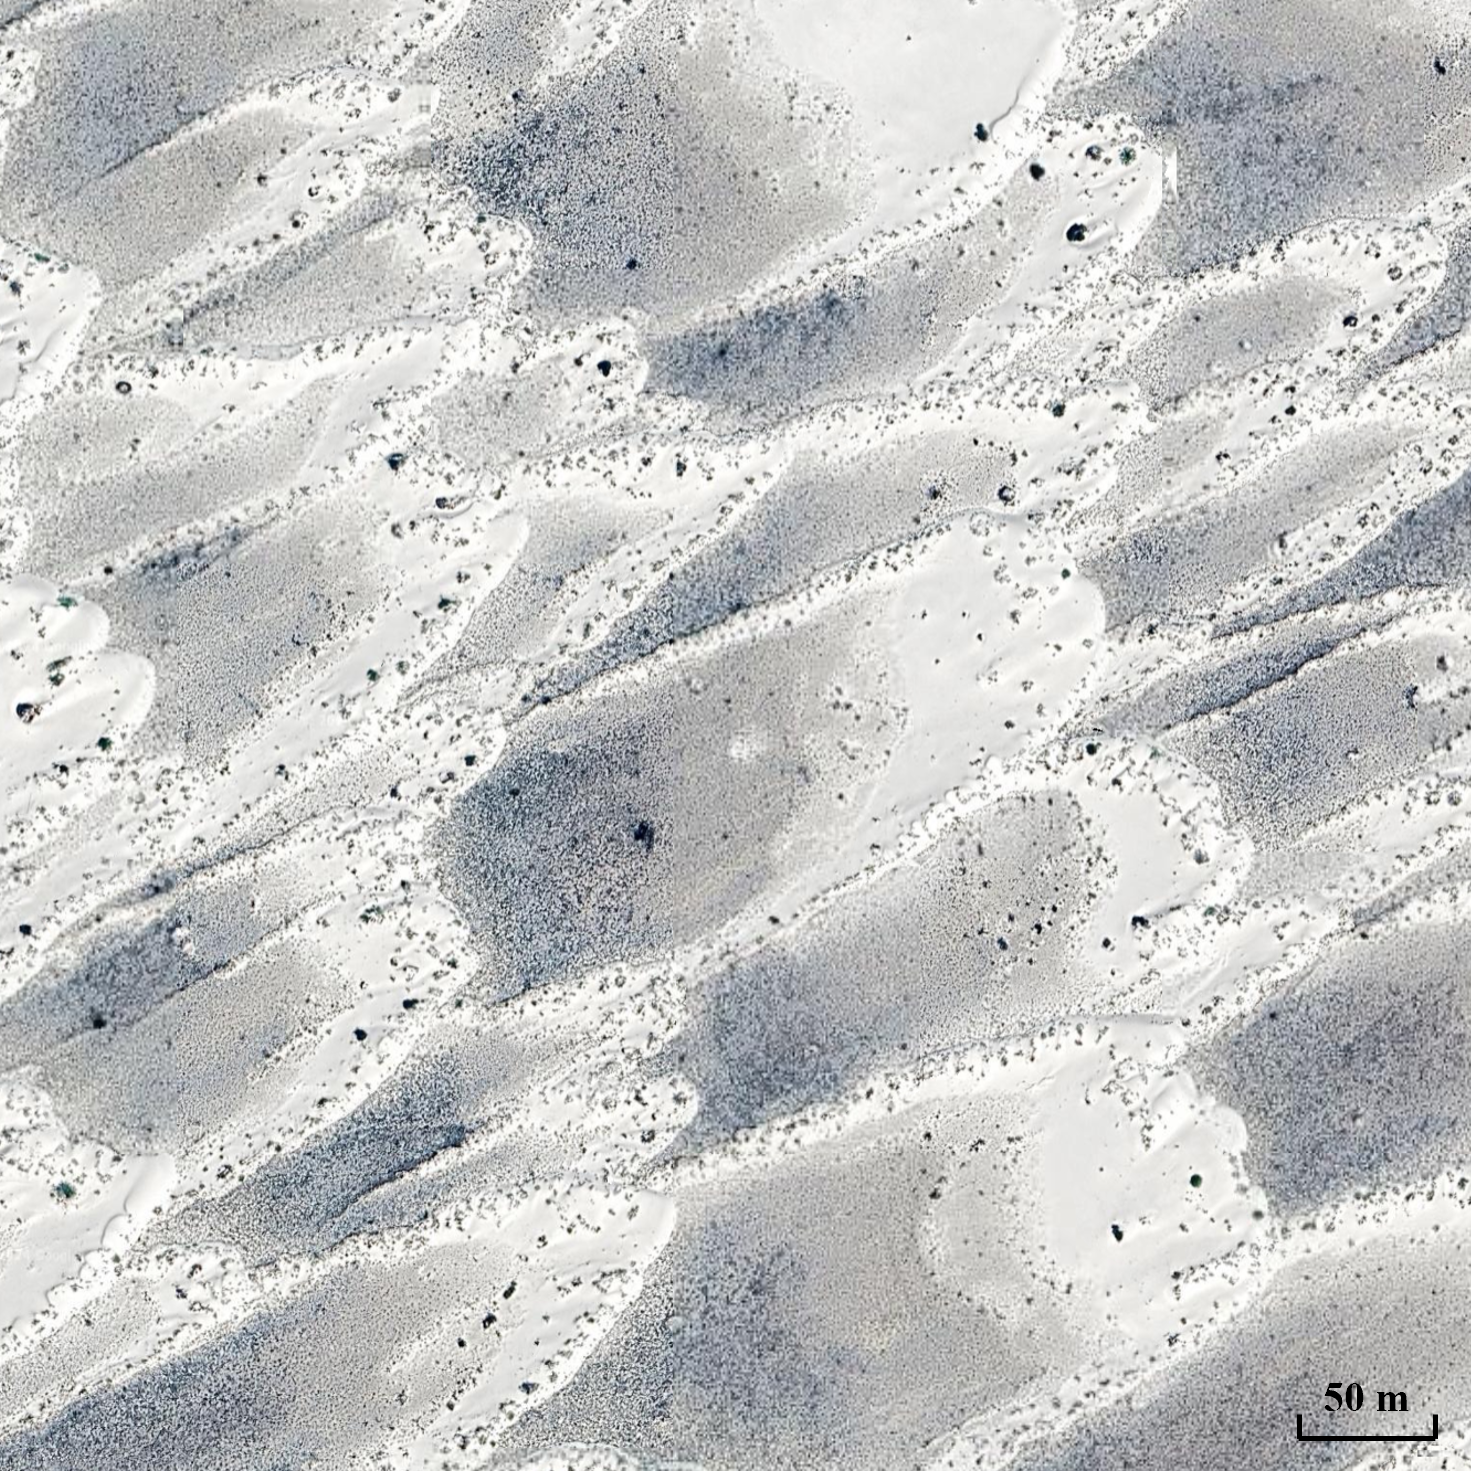
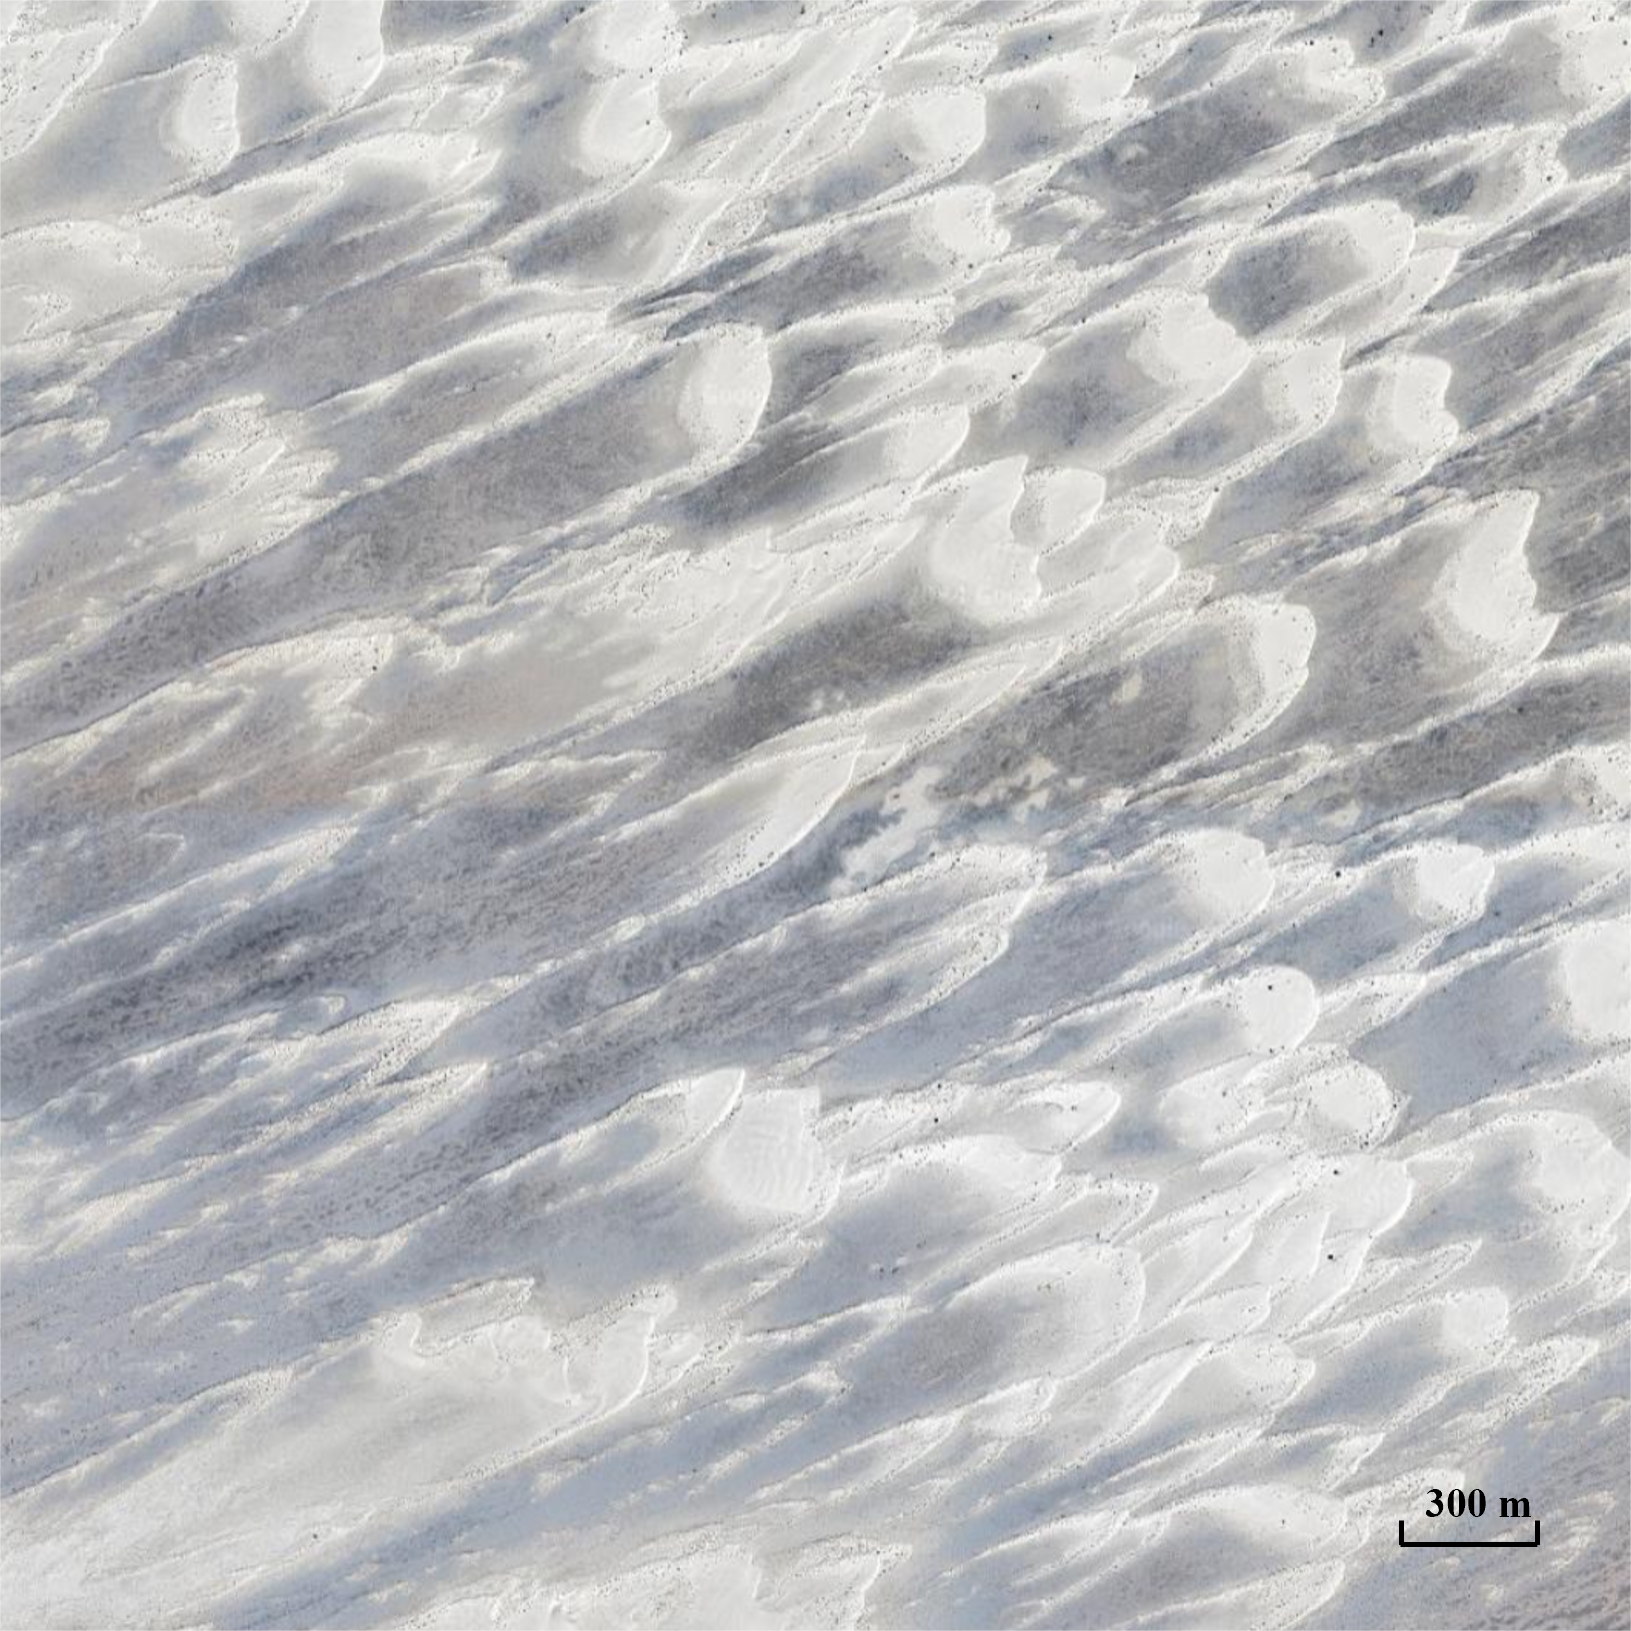
update font size for  and y axis labes and font of the ticks 0.1,0.2 etc on the axes

diff --git a/src/components/Charts/ShearStrengthOnWorldMapChart.tsx b/src/components/Charts/ShearStrengthOnWorldMapChart.tsx
@@ -24,19 +24,19 @@ interface ChartProps {
   };
 }
 
-const generateInitialChartData = ( ): ChartData[] => {
-    const initialdata: ChartData[] = [];
-    const numOfPoints = 50; // Adjust for a denser or sparser grid
-  
-    for (let x = 0; x < numOfPoints; x++) {
-      for (let y = 0; y < numOfPoints; y++) {
-        const value = 0;
-        initialdata.push({ x, y, value });
-      }
+const generateInitialChartData = (): ChartData[] => {
+  const initialdata: ChartData[] = [];
+  const numOfPoints = 50; // Adjust for a denser or sparser grid
+
+  for (let x = 0; x < numOfPoints; x++) {
+    for (let y = 0; y < numOfPoints; y++) {
+      const value = 0;
+      initialdata.push({ x, y, value });
     }
-  
-    return initialdata;
-  };
+  }
+
+  return initialdata;
+};
 
 const ShearStrengthOnWorldMapChart: React.FC<ChartProps> = ({ width, height, shearPlotdata }) => {
   const svgRef = useRef<SVGSVGElement>(null);
@@ -135,46 +135,51 @@ const ShearStrengthOnWorldMapChart: React.FC<ChartProps> = ({ width, height, she
       svg.append('g')
         .attr('transform', `translate(${margin.left},${height - margin.bottom})`)
         .call(d3.axisBottom(xScale).tickFormat(d3.format(".1f")).tickValues(d3.range(0.0, 1.0, 0.1)))
-        .append('text') // X-axis Label
-        .attr('y', 40)
-        .attr('x', plotWidth / 2)
+        .selectAll('text')
+        .style('font-size', '15px'); // Increase font size for x-axis tick labels
+
+      svg.append('text') // X-axis Label
+        .attr('y', height - margin.bottom + 45)
+        .attr('x', plotWidth / 2 )
         .attr('text-anchor', 'middle')
         .attr('fill', 'black')
-        .style('font-size', '25px')
+        .style('font-size', '20px')
         .text('X-Coordinates');
 
       // Add Y axis
       svg.append('g')
         .attr('transform', `translate(${margin.left},${margin.top})`)
         .call(d3.axisLeft(yScale).tickFormat(d3.format(".1f")).tickValues(d3.range(0.1, 1.0, 0.1)))
-        .append('text') // Y-axis Label
+        .selectAll('text')
+        .style('font-size', '15px'); // Increase font size for y-axis tick labels
+
+      svg.append('text') // Y-axis Label
         .attr('transform', 'rotate(-90)')
-        .attr('y', -30)
-        .attr('x', -plotHeight / 2)
+        .attr('y', margin.left - 37)
+        .attr('x', -plotHeight / 2 )
         .attr('text-anchor', 'middle')
         .attr('fill', 'black')
-        .style('font-size', '25px') // Set the font size here
+        .style('font-size', '20px') // Increase the font size here
         .text('Y-Coordinates');
-    
-    // Add  top borders to the chart area
-    svg.append('line')
-      .attr('x1', margin.left)
-      .attr('x2', width - margin.right)
-      .attr('y1', margin.top)
-      .attr('y2', margin.top)
-      .attr('stroke', 'black')
-      .attr('stroke-width', '1');
 
-        // Add  right borders to the chart area
+      // Add top borders to the chart area
       svg.append('line')
-      .attr('x1', width - margin.right)
-      .attr('x2', width - margin.right)
-      .attr('y1', margin.top)
-      .attr('y2', height - margin.bottom)
-      .attr('stroke', 'black')
-      .attr('stroke-width', '1');
-  }
+        .attr('x1', margin.left)
+        .attr('x2', width - margin.right)
+        .attr('y1', margin.top)
+        .attr('y2', margin.top)
+        .attr('stroke', 'black')
+        .attr('stroke-width', '1');
 
+      // Add right borders to the chart area
+      svg.append('line')
+        .attr('x1', width - margin.right)
+        .attr('x2', width - margin.right)
+        .attr('y1', margin.top)
+        .attr('y2', height - margin.bottom)
+        .attr('stroke', 'black')
+        .attr('stroke-width', '1');
+    }
   }, [data, plotWidth, plotHeight]);
 
   return (

diff --git a/src/pages/RightComponent.tsx b/src/pages/RightComponent.tsx
@@ -616,7 +616,8 @@ const HypothesisConfidencePanel_Step5 = (
       >
         Collected Shear Data from the Transect
       </Typography>
- 
+    
+      {/* Height and Width of the image in the background is provided via prop */}
       <ShearStrengthOnWorldMapChart width={650} height={650} shearPlotdata={scatter_Plot_Data}/>
          
       <ShearVsMoisturePlot width={650} height={650} />
